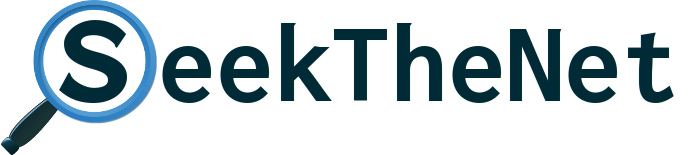
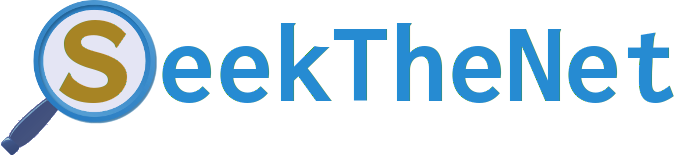
CHANGED: siloportem theme

Changed region(s): [[0.0, 0.0516, 0.96, 1.0]]

diff --git a/searx/static/themes/siloportem/css/siloportem.min.css b/searx/static/themes/siloportem/css/siloportem.min.css
@@ -44,7 +44,7 @@ input[type=checkbox]:not (:checked )+.label_hide_if_not_checked, input[type=chec
 	display: block;
 	overflow: hidden;
 	cursor: pointer;
-	border: 2px solid #FFF !important;
+	border: 2px solid #002b36 !important;
 	border-radius: 50px !important
 }
 
@@ -63,18 +63,18 @@ input[type=checkbox]:not (:checked )+.label_hide_if_not_checked, input[type=chec
 	font-size: 20px;
 	box-sizing: border-box;
 	content: "";
-	background-color: #EEE
+	background-color: #073642
 }
 
 .onoffswitch-switch {
 	display: block;
 	width: 37px;
-	background-color: #0C0;
+	background-color: #268bd2;
 	position: absolute;
 	top: 0;
 	bottom: 0;
 	right: 0;
-	border: 2px solid #FFF !important;
+	border: 2px solid #002b36 !important;
 	border-radius: 50px !important;
 	transition: all .3s ease-in 0s
 }
@@ -85,7 +85,7 @@ input[type=checkbox]:not (:checked )+.label_hide_if_not_checked, input[type=chec
 
 .onoffswitch-checkbox:checked+.onoffswitch-label .onoffswitch-switch {
 	right: 71px;
-	background-color: #A1A1A1
+	background-color: #93a1a1
 }
 
 .result_header {
@@ -206,9 +206,9 @@ input[type=checkbox]:not (:checked )+.label_hide_if_not_checked, input[type=chec
 	font-size: 1.3rem;
 	font-weight: 400;
 	background-color: #fff;
-	border: #DDD 1px solid;
+	border: #073642 1px solid;
 	border-right: none;
-	color: #333;
+	color: #268bd2;
 	padding-bottom: .8rem;
 	padding-top: .8rem;
 	text-align: center
@@ -217,14 +217,14 @@ input[type=checkbox]:not (:checked )+.label_hide_if_not_checked, input[type=chec
 .search_categories label:last-child, #categories label:last-child,
 	.search_categories .input-group-addon:last-child, #categories .input-group-addon:last-child
 	{
-	border-right: #DDD 1px solid
+	border-right: #073642 1px solid
 }
 
 .search_categories input[type=checkbox]:checked+label, #categories input[type=checkbox]:checked+label
 	{
-	color: #000;
+	color: #268bd2;
 	font-weight: 700;
-	background-color: #EEE
+	background-color: #002b36
 }
 
 #advanced-search-container {
@@ -239,9 +239,9 @@ input[type=checkbox]:not (:checked )+.label_hide_if_not_checked, input[type=chec
 	font-size: 1.3rem;
 	font-weight: 400;
 	background-color: #fff;
-	border: #DDD 1px solid;
+	border: #073642 1px solid;
 	border-right: none;
-	color: #333;
+	color: #268bd2;
 	padding-bottom: .8rem;
 	padding-left: 1.2rem;
 	padding-right: 1.2rem
@@ -249,7 +249,7 @@ input[type=checkbox]:not (:checked )+.label_hide_if_not_checked, input[type=chec
 
 #advanced-search-container label:last-child, #advanced-search-container .input-group-addon:last-child
 	{
-	border-right: #DDD 1px solid
+	border-right: #073642 1px solid
 }
 
 #advanced-search-container input[type=radio] {
@@ -257,9 +257,9 @@ input[type=checkbox]:not (:checked )+.label_hide_if_not_checked, input[type=chec
 }
 
 #advanced-search-container input[type=radio]:checked+label {
-	color: #000;
+	color: #268bd2;
 	font-weight: 700;
-	background-color: #EEE
+	background-color: #002b36
 }
 
 #check-advanced {
@@ -586,6 +586,8 @@ input[type=checkbox]:not (:checked )+.label_hide_if_not_checked, input[type=chec
 	line-height: 40px
 }
 
+
+
 .menu a {
 	color: #268bd2;
 	text-decoration: none
@@ -612,6 +614,7 @@ input[type=checkbox]:not (:checked )+.label_hide_if_not_checked, input[type=chec
 	margin: 0;
 	float: left;
 	list-style: none
+	
 }
 
 .menu-right {
@@ -625,6 +628,24 @@ input[type=checkbox]:not (:checked )+.label_hide_if_not_checked, input[type=chec
 .navbar-siloportem {
 	background-color: #073642;
 	border-color: #002b36
+}
+
+.navbar-siloportem ul {
+	padding: 0;
+	margin: 0
+}
+
+.navbar-siloportem ul li {
+	padding: 0 0;
+	margin: 0;
+	float: left;
+	list-style: none
+	
+}
+
+.navbar-siloportem img {
+	height: 100%;
+	width: auto
 }
 
 .navbar-siloportem .navbar-brand {
@@ -664,12 +685,12 @@ input[type=checkbox]:not (:checked )+.label_hide_if_not_checked, input[type=chec
 }
 
 .navbar-siloportem .navbar-toggle {
-	border-color: #ddd
+	border-color: #073642
 }
 
 .navbar-siloportem .navbar-toggle:hover, .navbar-siloportem .navbar-toggle:focus
 	{
-	background-color: #ddd
+	background-color: #073642
 }
 
 .navbar-siloportem .navbar-toggle .icon-bar {

diff --git a/searx/templates/siloportem/navbar.html b/searx/templates/siloportem/navbar.html
@@ -2,12 +2,13 @@
 <div class="navbar navbar-siloportem" role="navigation">
     <div class="container-fluid">
         <div class="navbar-header{% if rtl %} navbar-right{% endif %}">
-            <a class="navbar-brand" href="{{ url_for('index') }}">{{ instance_name }}</a>
+            <a class="navbar-brand" href="{{ url_for('index') }}"><img src="{{ url_for('static', filename='img/logo.png') }}" alt="seekthenet"/></a>
+        </div>
+        <div class="navbar-header navbar-right">
+            <ul> <!-- results.html -->
+                <li><a class="navbar-brand" href="https://github.com/siloportem/searx" target="_blank"><img src="{{ url_for('static', filename='img/github.png') }}" alt="source"/></a></li>
+                <li><a class="navbar-brand" href="{{ url_for('preferences') }}"><img src="{{ url_for('static', filename='img/preferences.png') }}" alt="preferences"/></a></li>
+            </ul>
         </div>
     </div><!--/.container-fluid -->
 </div>
-<div class="menu menu-{% if rtl %}left{% else %}right{% endif %}">
-    <ul> <!-- results.html -->
-        <li{% if template_name == 'preferences.html' %} class="active"{% endif %}><a href="{{ url_for('preferences') }}" class="hmarg">{{ _('preferences') }}</a></li>
-    </ul>
-</div><!--/.nav-collapse -->
